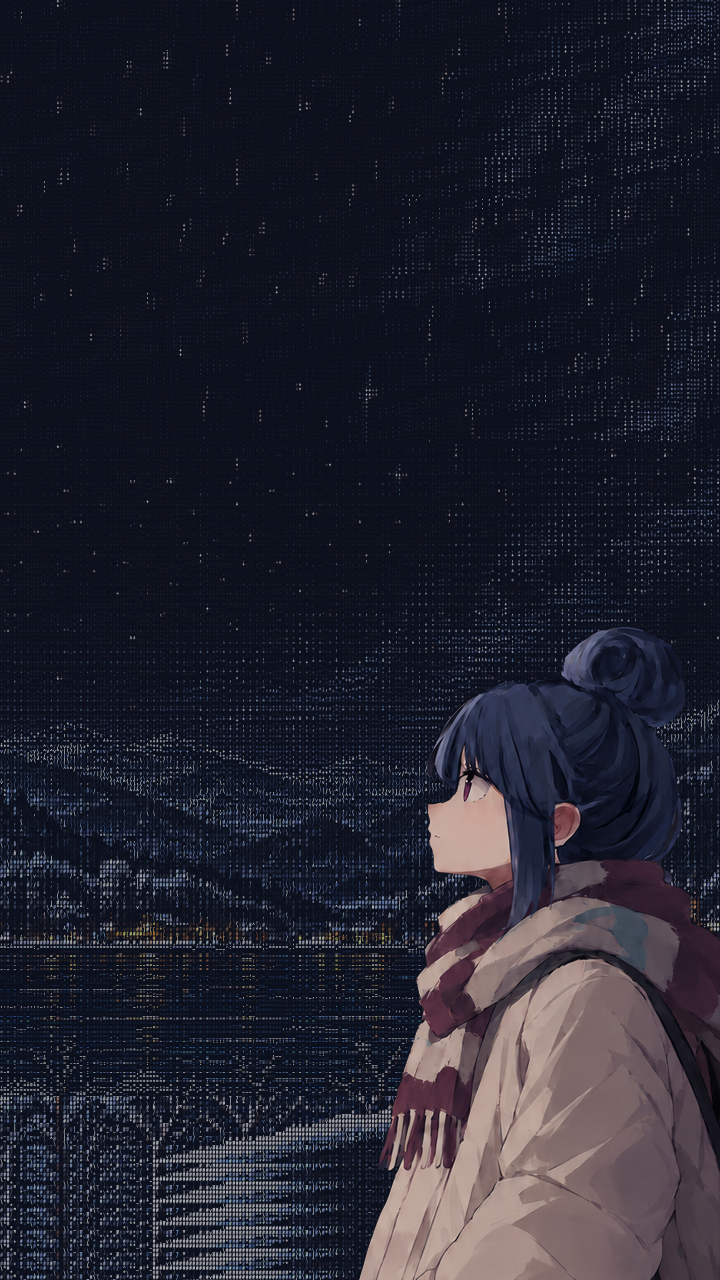
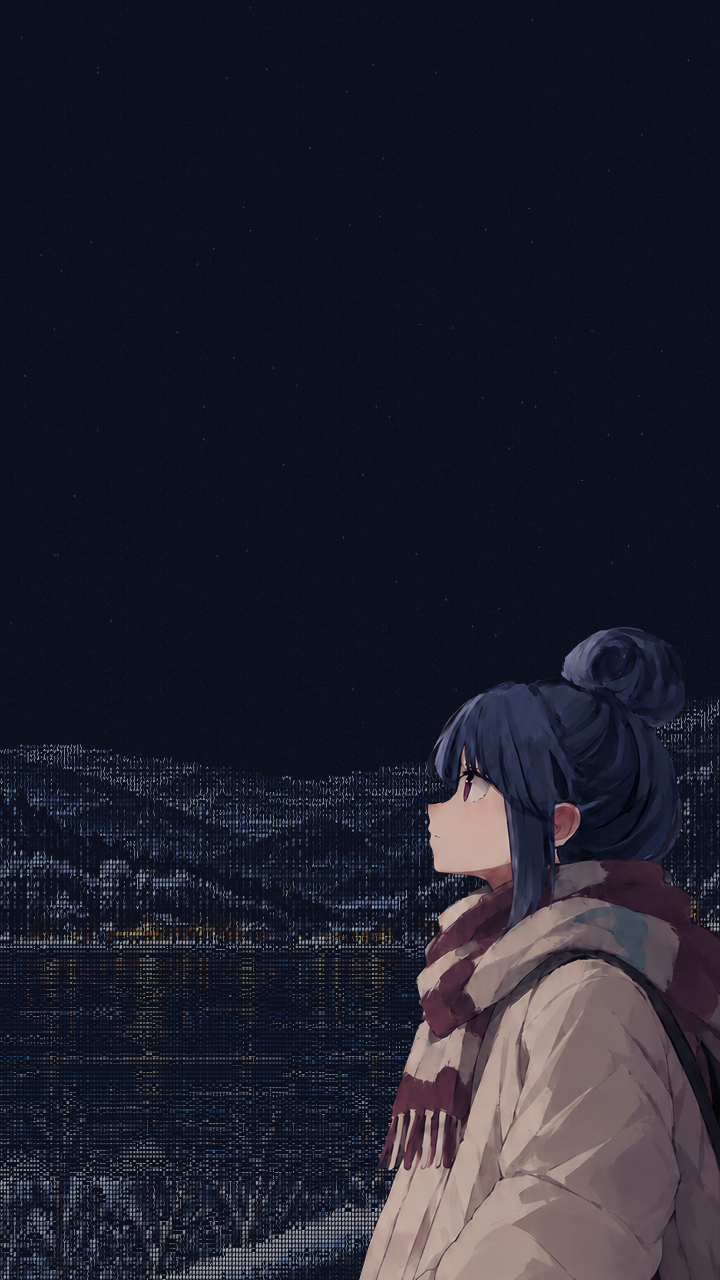
Fix repeated strips in portrait ASCII wallpaper

diff --git a/yuru/ascii_landscape.py b/yuru/ascii_landscape.py
@@ -4,6 +4,7 @@ Runtime reads explicit printable glyphs, inks and materials only. It never reads
 or paints the reference image. Portrait framing uses the same-size typography.
 """
 import json
+import math
 from pathlib import Path
 
 
@@ -20,33 +21,73 @@ def load_blueprint(path=None):
     return data
 
 
+def cell_noise(col,row,salt=0):
+    """Stable cell-local randomness without translating or wrapping scene fragments."""
+    value=((col+71)*374761393 ^ (row+317)*668265263 ^ salt)&0xffffffff
+    value=((value^(value>>13))*1274126177)&0xffffffff
+    return ((value^(value>>16))&0xffffffff)/4294967296
+
+
+def portrait_sky(col,row,rows,paper):
+    """Faint native glyph grain and sparse stars, never a copied sky strip."""
+    noise=cell_noise(col,row)
+    chars="....,,,::;''++*"
+    char=' ' if noise<.28 else chars[int(cell_noise(col,row,0x45d9f3b)*len(chars))]
+    strength=(.35+.65*cell_noise(col,row,0x119de1f3))*(.70+.30*row/max(1,rows-1))
+    if noise>.9985:
+        char='+' if noise>.99925 else '*'
+        strength=2.5+1.5*cell_noise(col,row,0x27d4eb2d)
+    elif noise>.989:
+        char='.'
+        strength=1+cell_noise(col,row,0x165667b1)
+    ink=tuple(p+d*strength for p,d in zip(paper,(.060,.075,.095)))
+    return (char,ink,'sky',sum(ink)/3)
+
+
 def build_landscape(cols,rows,portrait=False,blueprint=None):
     data=blueprint or load_blueprint();width,height=data['columns'],data['rows']
+    paper=tuple(int(data['paper'][i:i+2],16)/255 for i in (1,3,5))
     def sample(x,y):
         x=max(0,min(width-1,int(x)));y=max(0,min(height-1,int(y)))
         char=data['glyph_rows'][y][x];ink=data['ink_rows'][y][x]
         rgb=tuple(int(ink[i:i+2],16)/255 for i in (1,3,5))
         return (char,rgb,data['material_rows'][y][x],sum(rgb)/3)
+    def resample(x,y,col,row):
+        # Interpolate ink; dither between the neighbouring native glyphs rather
+        # than duplicating whole source rows when the lower scene grows taller.
+        x0,y0=math.floor(x),math.floor(y);fx,fy=x-x0,y-y0
+        neighbours=[(sample(x0,y0),(1-fx)*(1-fy)),(sample(x0+1,y0),fx*(1-fy)),
+                    (sample(x0,y0+1),(1-fx)*fy),(sample(x0+1,y0+1),fx*fy)]
+        ink=tuple(sum(cell[1][k]*weight for cell,weight in neighbours) for k in range(3))
+        pick=cell_noise(col,row,0x85ebca6b)
+        chosen=neighbours[-1][0]
+        for cell,weight in neighbours:
+            pick-=weight
+            if pick<0:
+                chosen=cell;break
+        kind=sample(round(x),round(y))[2]
+        return (chosen[0],ink,kind,sum(ink)/3)
     cells=[]
+    shore=rows*.735
+    start=shore-height*.70
+    x_start=width*.16
+    x_span=min(max(0,cols-1),max(0,width-1-x_start))
     for row in range(rows):
         for col in range(cols):
             if not portrait:
-                x=col+(width-cols)/2;y=row+(height-rows)/2
-                cells.append(sample(x,y))
+                cells.append(sample(col+(width-cols)/2,row+(height-rows)/2))
+                continue
+            # Preserve the lake's shore and the character layout. Each source
+            # foreground row is traversed once; there is no bottom-strip tiling.
+            x=x_start+col*x_span/max(1,cols-1)
+            if row>=shore:
+                progress=(row-shore)/max(1,rows-1-shore)
+                y=(height-1)*.70+progress*(height-1)*.30
+                cell=resample(x,y,col,row)
             else:
-                # Crop the left/central lake into the narrow output, retaining
-                # glyph pitch. Place the original shore around 73.5% height.
-                x=width*.16+col
-                y=row-(rows*.735-height*.70)
-                if y<0:
-                    # Extend the reference's faint sky rather than stretching
-                    # the mountain ridge vertically into artificial towers.
-                    sky_y=(row*.43+col*.07)%max(1,int(height*.24))
-                    char,ink,_,value=sample((x+row*.11)%width,sky_y)
-                    cells.append((char,ink,'sky',value))
-                elif y>=height:
-                    # Continue the low foreground's open mesh and snow texture.
-                    char,ink,_,value=sample(x,height-5+(row%5))
-                    cells.append((char,ink,'foreground',value))
-                else:cells.append(sample(x,y))
+                y=row-start
+                cell=sample(x,y) if y>=0 else None
+            if cell is None or cell[2]=='sky':
+                cell=portrait_sky(col,row,rows,paper)
+            cells.append(cell)
     return cells

diff --git a/yuru/test_ascii_wallpaper.py b/yuru/test_ascii_wallpaper.py
@@ -1,5 +1,8 @@
 """Proof that scenery is a glyph grid, selected RGB is character-only, and mouse handlers are absent."""
 import unittest
+from copy import deepcopy
+
+from ascii_landscape import build_landscape
 
 import cairo
 
@@ -43,6 +46,27 @@ class CompositionTests(unittest.TestCase):
                 x,y=int(width*background[0]),int(height*background[1])
                 self.assertEqual(pixel(scene.character,x,y)[3],0)
                 self.assertNotEqual(pixel(output,x,y),pixel(scene.source,x,y))
+
+    def test_portrait_sky_does_not_clone_source_sky_strips(self):
+        width,height=12,8
+        data={'columns':width,'rows':height,'paper':'#0c101c',
+              'glyph_rows':['@'*width,'#'*width]+['v'*width]*(height-2),
+              'ink_rows':[['#ffffff']*width,['#223344']*width]+[['#445566']*width]*(height-2),
+              'material_rows':[['sky']*width]*2+[['foreground']*width]*(height-2)}
+        reordered=deepcopy(data)
+        for key in ('glyph_rows','ink_rows'):
+            reordered[key][:2]=reordered[key][:2][::-1]
+        # Reordering the same sky samples must not move stripes into portrait.
+        self.assertEqual(build_landscape(5,24,True,data),build_landscape(5,24,True,reordered))
+        # The landscape still follows the actual reference glyph layout.
+        self.assertNotEqual(build_landscape(width,height,False,data),
+                            build_landscape(width,height,False,reordered))
+
+    def test_portrait_foreground_traverses_scene_instead_of_tiling_five_rows(self):
+        cols,rows=217,386
+        cells=build_landscape(cols,rows,True)
+        tail=[tuple(cells[row*cols:(row+1)*cols]) for row in range(rows-40,rows)]
+        self.assertEqual(len(set(tail)),40,'Repeated source strips reached the lower portrait')
 
     def test_scene_fills_outputs_without_independently_positioned_cutout(self):
         for width,height in [(3440,1440),(1440,3440),(600,1000)]:
